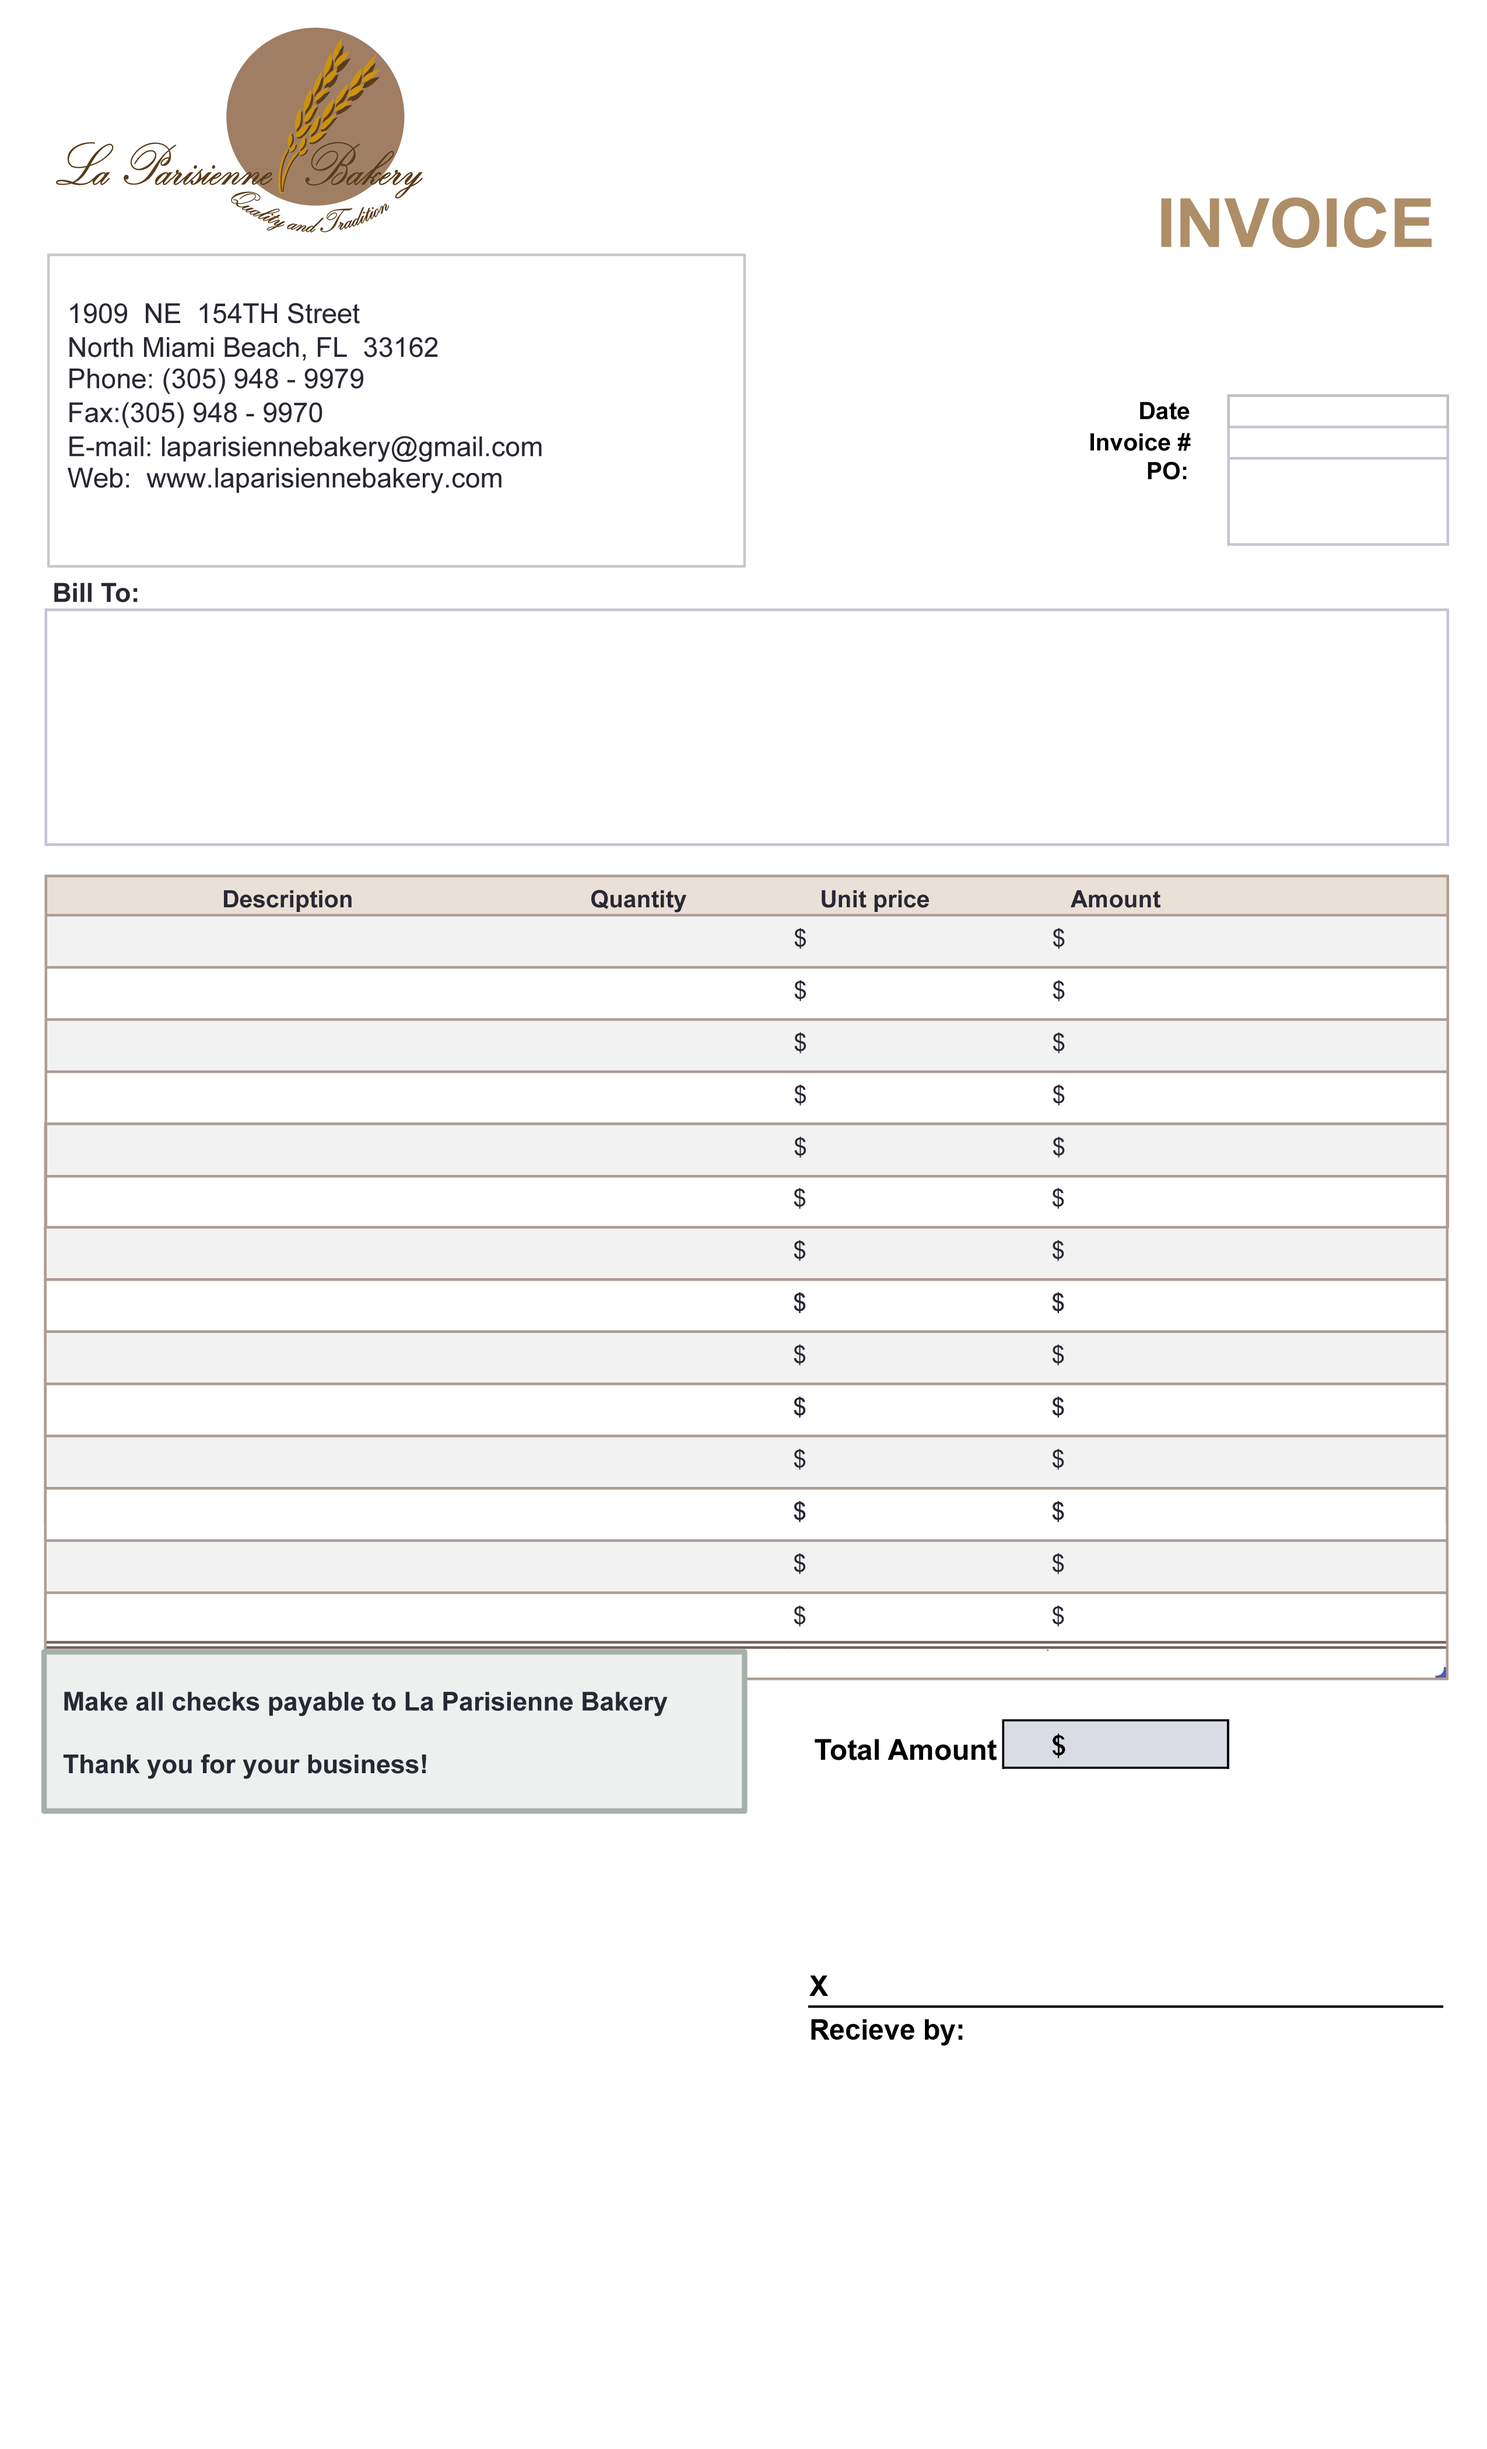
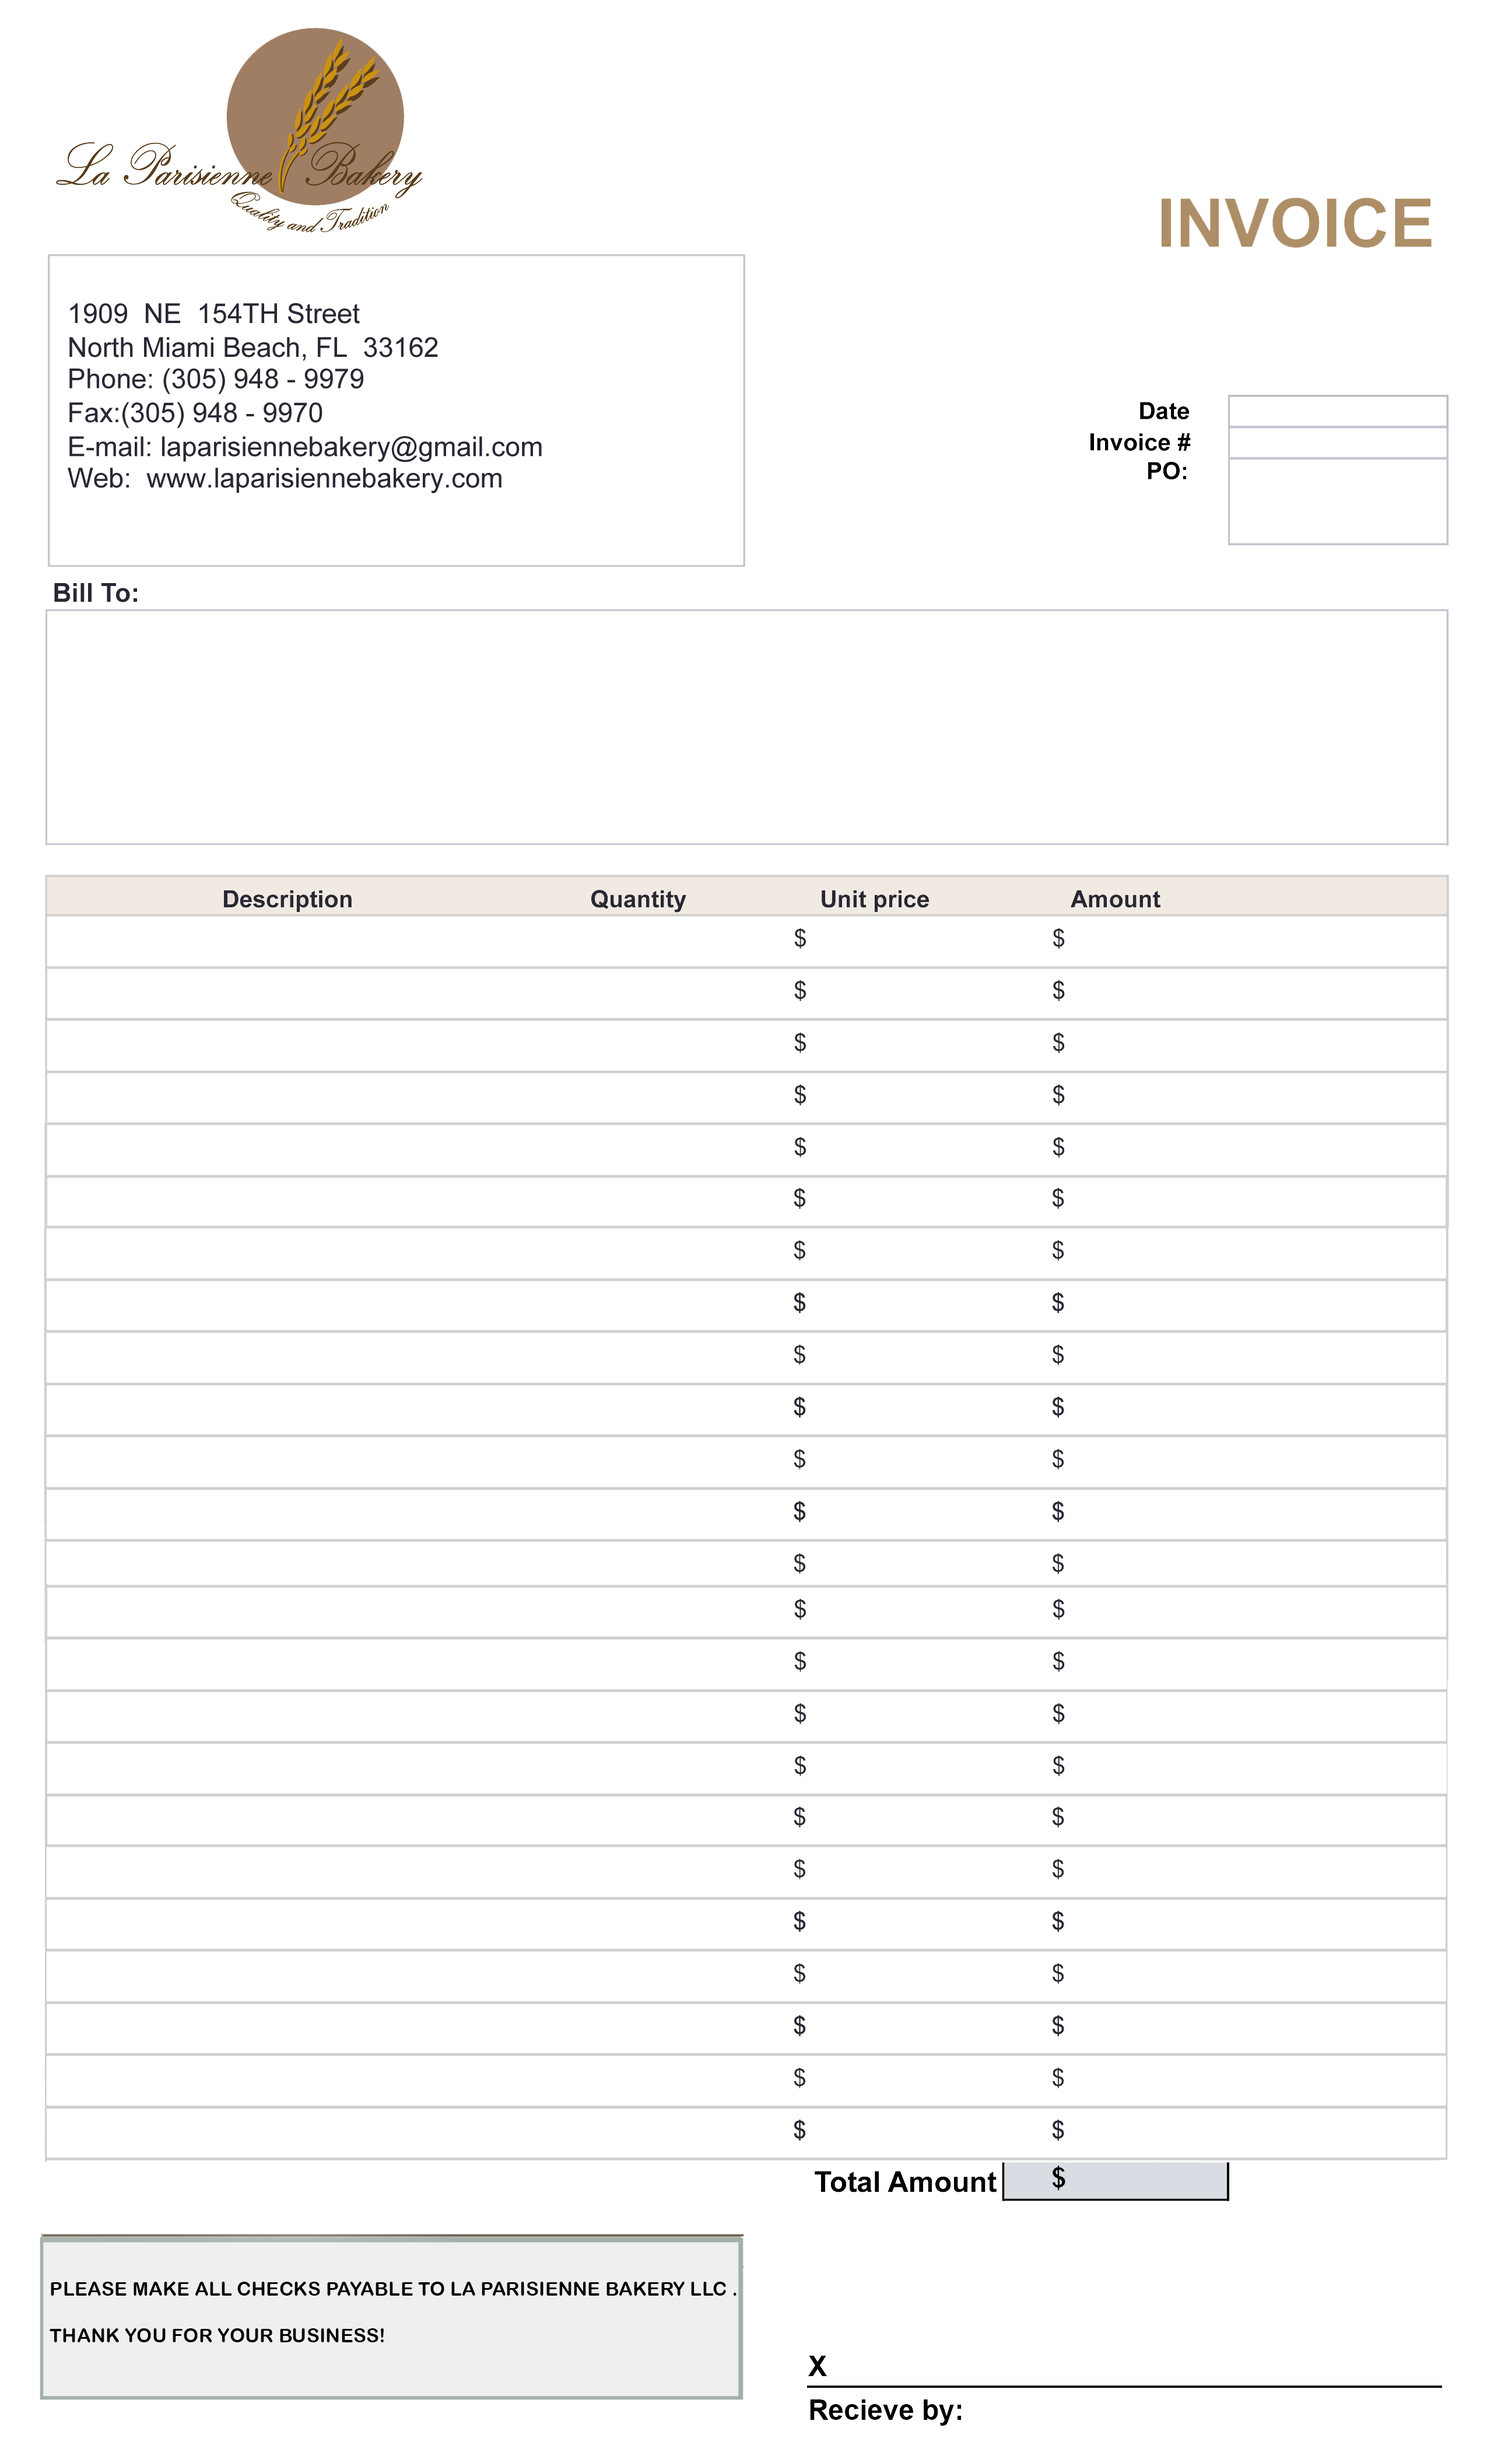
commit new template changes

diff --git a/NICSignatureView.m b/NICSignatureView.m
@@ -473,7 +473,7 @@ static NICSignaturePoint ViewPointToGL(CGPoint viewPoint, CGRect bounds, GLKVect
         InvoiceDate = [NSString stringWithFormat:@"%@",[item valueForKey:@"docDate"]];
         InvoicePO = [NSString stringWithFormat:@"%@",[item valueForKey:@"custPONum"]];
     }
-    
+  
     UIImage *anImage = [UIImage imageNamed:@"InvoiceTemplate.png"];
     [self addImage:anImage  atPoint:CGPointMake(100, 60)];
     totalOfTheWholeInvoice=@"0";
@@ -511,11 +511,14 @@ static NICSignaturePoint ViewPointToGL(CGPoint viewPoint, CGRect bounds, GLKVect
         
     }
     
-    [self addText: totalOfTheWholeInvoice withFrame:CGRectMake(561, 800, 150, 150) fontSize:13.0f];
+    [self addText: totalOfTheWholeInvoice withFrame:CGRectMake(561, 985, 150, 150) fontSize:13.0f];
+
+    //add the image signature
+ 
     UIImage * signature = [self signatureImage];
     CGImageRef imgRef = CGImageCreateWithImageInRect([signature CGImage], CGRectMake(100, 300, 800, 260));
 	UIImage* cropedImg =[UIImage imageWithCGImage:imgRef];
-    [self addImage:cropedImg  atPoint:CGPointMake(460, 850)];
+    [self addImage:cropedImg  atPoint:CGPointMake(460, 1015)];
    
     
     NSError *error = nil;
@@ -540,7 +543,7 @@ static NICSignaturePoint ViewPointToGL(CGPoint viewPoint, CGRect bounds, GLKVect
     [self addText:[NSString stringWithFormat:@"%@\n%@\n\n%@",InvoiceDate, myNumber, InvoicePO]
         withFrame:CGRectMake(630, 227, 150, 150) fontSize:13.0f];
         
-         [self addText:[NSString stringWithFormat:@"%@" ,recieversName.text] withFrame:CGRectMake(530, 920, 150, 150) fontSize:15.0f];
+         [self addText:[NSString stringWithFormat:@"%@" ,recieversName.text] withFrame:CGRectMake(530, 1080, 150, 150) fontSize:15.0f];
     }
 }
 

diff --git a/ManageInvoicesDetailViewController.m b/ManageInvoicesDetailViewController.m
@@ -399,7 +399,7 @@ ProductsReviewDetailCell *cell;
         
     }
     
-    [self addText: totalOfTheWholeInvoice withFrame:CGRectMake(561, 800, 150, 150) fontSize:13.0f];
+    [self addText: totalOfTheWholeInvoice withFrame:CGRectMake(561, 985, 150, 150) fontSize:13.0f];
     
 }
 
